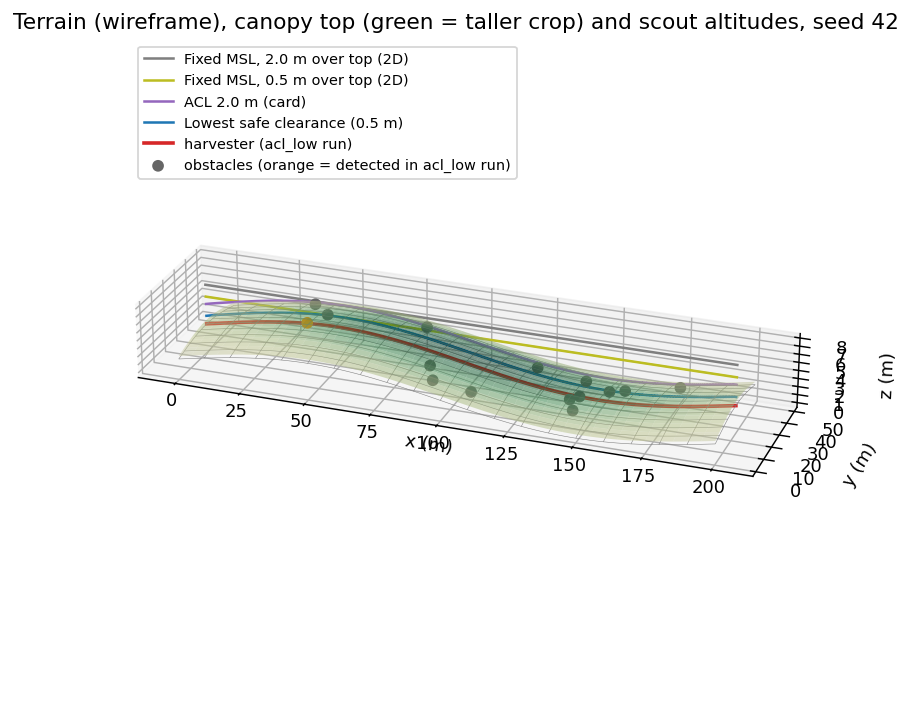
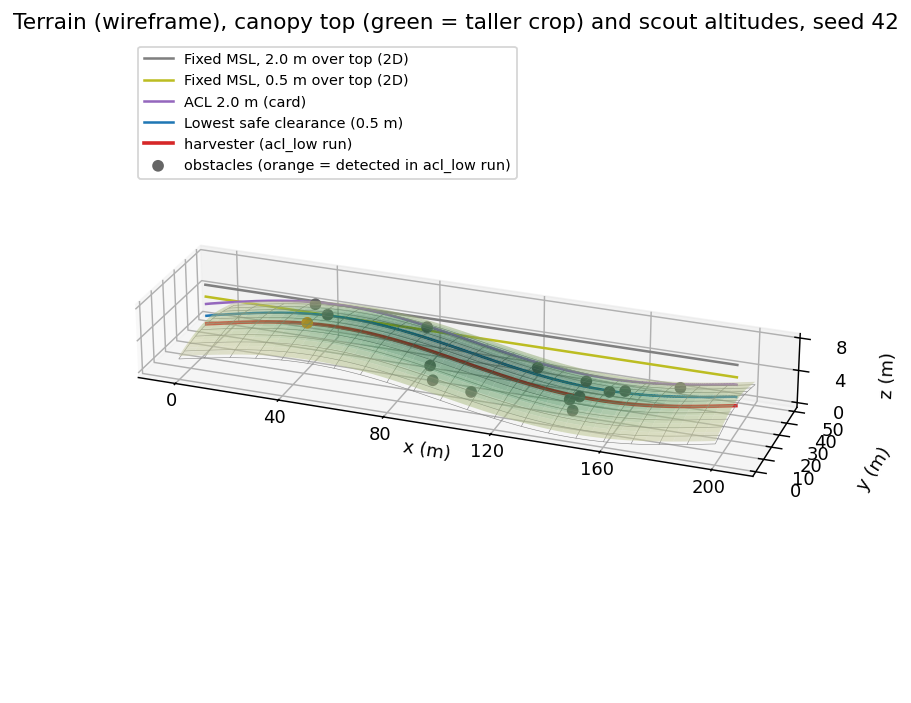
Fix S078 3D Harvester Guidance: address review follow-ups

diff --git a/src/04_industrial_agriculture/3d/s078_3d_harvester_guidance.py b/src/04_industrial_agriculture/3d/s078_3d_harvester_guidance.py
@@ -276,6 +276,7 @@ def simulate(seed, plan='acl_card', a=A_DEM, c_min=C_MIN, oracle=False, keep=Fal
     log = dict(t=[0.0], h=[harv.copy()], d=[np.r_[drone, dz]], v=[0.0])
     threat = np.abs(oy - Y_TRACK) < R_INFLATE
     min_lead = np.inf
+    v_rng, phi_rng = (np.inf, -np.inf), (np.inf, -np.inf)
     zmax_seen = -np.inf
     for k in range(MAX_STEPS):
         if not route_done:
@@ -294,6 +295,7 @@ def simulate(seed, plan='acl_card', a=A_DEM, c_min=C_MIN, oracle=False, keep=Fal
             assert dz >= Z_BOUNDS[0] - 1e-9, 'below the lower altitude bound'
             zmax_seen = max(zmax_seen, dz)
             canopy_clear = min(canopy_clear, dz - ground - float(crop(drone[0], drone[1])))
+            assert canopy_clear > 0.0, 'scout in the crop canopy'
             mx, my = drone + noise[k]
             d3 = np.sqrt((ox - mx) ** 2 + (oy - my) ** 2 + (oz - dz) ** 2)
             hit = (~detected) & (d3 <= r_det)
@@ -325,7 +327,9 @@ def simulate(seed, plan='acl_card', a=A_DEM, c_min=C_MIN, oracle=False, keep=Fal
             j = min(int(np.searchsorted(cum_h, s_h, side='right')) - 1, len(P_h) - 2)
             seg = P_h[j + 1] - P_h[j]
             u = seg / max(np.hypot(*seg), 1e-12)
-            v, _ = harv_speed(harv, u, a)
+            v, phi_h = harv_speed(harv, u, a)
+            v_rng = (min(v_rng[0], v), max(v_rng[1], v))
+            phi_rng = (min(phi_rng[0], phi_h), max(phi_rng[1], phi_h))
             s_h = min(s_h + v * DT, cum_h[-1])
             harv = np.array([np.interp(s_h, cum_h, P_h[:, 0]), np.interp(s_h, cum_h, P_h[:, 1])])
             step = np.hypot(*(harv - prev))
@@ -353,7 +357,8 @@ def simulate(seed, plan='acl_card', a=A_DEM, c_min=C_MIN, oracle=False, keep=Fal
     res = dict(cls=cls, threat=threat, n_coll=int(collided.sum()), collided=collided,
                n_det=int(detected.sum()), n_replan=n_replan, t_mission=t, t_start=t_start,
                extra=driven - FIELD_X, ground3=driven3, canopy_clear=canopy_clear,
-               dz_det=dz_obs_det, vzmax=vzmax, min_lead=min_lead, obs=obs, oz=oz, zmax=zmax_seen)
+               dz_det=dz_obs_det, vzmax=vzmax, min_lead=min_lead, obs=obs, oz=oz, zmax=zmax_seen,
+               v_rng=v_rng, phi_rng=phi_rng)
     if keep:
         res.update({k: np.array(v) for k, v in log.items()})
         res['path'] = np.array(path)
@@ -416,9 +421,11 @@ def plot_field_3d(main, out_dir):
     det = r['cls'] != 'missed'
     ax.scatter(r['obs'][:, 0], r['obs'][:, 1], r['oz'], c=np.where(det, 'darkorange', '0.4'), s=30,
                depthshade=False, label='obstacles (orange = detected in acl_low run)')
-    ax.set_xlabel('x (m)')
-    ax.set_ylabel('y (m)')
-    ax.set_zlabel('z (m)')
+    ax.set_xlabel('x (m)', labelpad=12)
+    ax.set_ylabel('y (m)', labelpad=8)
+    ax.set_zlabel('z (m)', labelpad=4)
+    ax.set_zticks([0, 4, 8])
+    ax.set_xticks([0, 40, 80, 120, 160, 200])
     ax.set_box_aspect((200, 50, 25))
     ax.view_init(elev=25, azim=-70)
     ax.legend(fontsize=8, loc='upper left')
@@ -586,7 +593,13 @@ def report(main, mc, csweep, asweep):
             dzz = hc + c - H_OBS
             print(f'    clearance {c:.1f} m over {hc:.1f} m crop: dz to obstacle top {dzz:.2f} m, horizontal '
                   f'detection radius {np.sqrt(max(rd ** 2 - dzz ** 2, 0)):.2f} m')
-    print(f'  Harvester speed factor: eta at the max slope uphill/downhill '
+    vr = [r['v_rng'] for rs in mc.values() for r in rs]
+    pr = [r['phi_rng'] for rs in mc.values() for r in rs]
+    vmin, vmax = min(v[0] for v in vr), max(v[1] for v in vr)
+    print(f'  On the harvester tracks of all {N_MC}-seed runs: slope along the heading '
+          f'{np.rad2deg(min(p[0] for p in pr)):.2f} .. {np.rad2deg(max(p[1] for p in pr)):.2f} deg, speed '
+          f'{vmin:.3f} .. {vmax:.3f} m/s = {vmin / V0_HARV:.3f} .. {vmax / V0_HARV:.3f} x v0')
+    print(f'  Harvester speed factor: eta at the field-wide max slope uphill/downhill '
           f'{eta_slope(np.arctan(np.hypot(gx, gy).max())):.3f} / {eta_slope(-np.arctan(np.hypot(gx, gy).max())):.3f}')
     print(f'  [Seed {SEED}]')
     for p in PLANS + ['oracle']:

diff --git a/outputs/04_industrial_agriculture/3d/s078_3d_harvester_guidance/README.md b/outputs/04_industrial_agriculture/3d/s078_3d_harvester_guidance/README.md
@@ -31,9 +31,11 @@
 
 **Terrain and crop** (card): $z = A[\sin(2\pi x/200) + 0.5\sin(2\pi y/100)] + A$; $h_{crop} = 0.3 + 0.9\exp(-(x-100)^2/2\cdot 60^2 - (y-25)^2/2\cdot 15^2)$.
 
-**Harvester speed** (card, corrected to the signed slope along the heading $\hat{\mathbf u}$): $\phi = \arctan(\nabla z\cdot\hat{\mathbf u})$, $v = v_0\cos\phi\,\eta(\phi)$ with $\eta = 1$ for $|\phi| \le 3°$, $\max(0.4, 1 - 5(\phi - 3°))$ uphill, $\min(1.3, 1 - 5(\phi + 3°))$ downhill. At the steepest slope $\eta$ = 0.819 uphill and 1.181 downhill.
+**Harvester speed** (card, corrected to the signed slope along the heading $\hat{\mathbf u}$): $\phi = \arctan(\nabla z\cdot\hat{\mathbf u})$, $v = v_0\cos\phi\,\eta(\phi)$ with $\eta = 1$ for $|\phi| \le 3°$, $\max(0.4, 1 - 5(\phi - 3°))$ uphill, $\min(1.3, 1 - 5(\phi + 3°))$ downhill. At the field's steepest slope $\eta$ would be 0.819 uphill and 1.181 downhill; on the harvester tracks of all Monte Carlo runs the slope along the heading is only −3.62 to 3.60°, so the speed stays between 1.419 and 1.578 m/s (0.946–1.052 × $v_0$).
 
 **Scout altitude** (card command, corrected tracking law): $\dot z = \mathrm{clip}(\dot z_{cmd} + K_p(z_{cmd} - z), \pm 1.5\ \text{m/s})$, $K_p$ = 2 s⁻¹.
+
+**Canopy safety**: the scout's clearance above the canopy is asserted to stay positive (minimum printed per configuration).
 
 **Detection**: obstacle $j$ is detected when $\|(\mathbf p_{drone} + \boldsymbol\epsilon_{GPS}) - (x_j, y_j, z_{terrain} + 0.5)\| \le 2.5 - 0.1$ m (horizontal GPS noise, as in the 2D base).
 
@@ -75,7 +77,7 @@ conda activate drones
 python src/04_industrial_agriculture/3d/s078_3d_harvester_guidance.py
 ```
 
-Runtime 127–143 s over three runs (measured while other simulations shared the machine). Two single-threaded runs and one run with default threading printed byte-identical output and produced byte-identical PNG and GIF files.
+Runtime 51–53 s over three runs. Two single-threaded runs and one run with default threading printed byte-identical output and produced byte-identical PNG and GIF files.
 
 ---
 
@@ -142,7 +144,7 @@ The fixed MSL altitudes exceed the 8 m ceiling from $A_{dem}$ = 3 m (10.45 and 8
 - **The scout's height above the obstacles, not the slope, decides safety.** Flying low over the canopy (0.5 m) and following the terrain gives 0.42 collisions per run and 93.7 % timely detections of on-track obstacles; the card's 2.0 m ACL gives 1.80 collisions and misses 92.4 %, because 2 m above a 1.2 m crop the obstacle tops are 2.70 m below the drone, outside the 2.5 m sensor sphere. The 2D base's flat-world assumption (a 2D detection disc) hides this.
 - **The card's ACL is the problem even on flat ground.** At $A_{dem}$ = 0 both 2.0 m plans fail (1.93–2.20 collisions, 91–100 % missed), while both 0.5 m plans give 0.40. The clearance sweep shows the threshold: 0.3–0.5 m keeps 93.9 % timely, 1.0 m 78.8 %, 2.0 m 9.1 %.
 - **Terrain following matters once the clearance is low.** A fixed altitude low enough to clear the hilltop by 0.5 m is several metres above the valley canopy: its collisions grow with relief (0.40 → 1.07 → 1.33 → 1.53 → 1.73 for $A_{dem}$ = 0–4 m), while terrain-following at 0.5 m stays at 0.40–0.53. On the card's field it has fewer collisions than the fixed low plan in 18 of 40 seeds and more in none.
-- **Slope barely changes the mission.** The harvester's speed varies between 0.819 and 1.181 × nominal only where the slope exceeds 3°, and the uphill and downhill halves cancel: the oracle takes 133.8 s on the card's DEM against 133.6 s on flat ground; even at $A_{dem}$ = 4 m (10.08°) it takes 141.9 s. The card's expected degradation from terrain-induced altitude mismatch comes from the vertical sensor offset, not from slope.
+- **Slope barely changes the mission.** Along its track the harvester meets at most 3.60° uphill and 3.62° downhill, so its speed stays within 0.946–1.052 × nominal (it changes only where the slope exceeds 3°), and the uphill and downhill halves cancel: the oracle takes 133.8 s on the card's DEM against 133.6 s on flat ground; even at $A_{dem}$ = 4 m (10.08°) it takes 141.9 s. The card's expected degradation from terrain-induced altitude mismatch comes from the vertical sensor offset, not from slope.
 - **Safety margin to the crop**: the low terrain-following plan keeps at least 0.42 m above the canopy (0.22 m at 0.3 m commanded).
 - **Remaining collisions** of the best plan (0.42 per run) include the 6.3 % of on-track obstacles it misses; its horizontal detection radius (2.08–2.38 m) is smaller than the 2.5 m on-track band, as in the 2D base. Whether the rest come from detours into unscanned ground, as the 2D base found, was not probed here.
 
